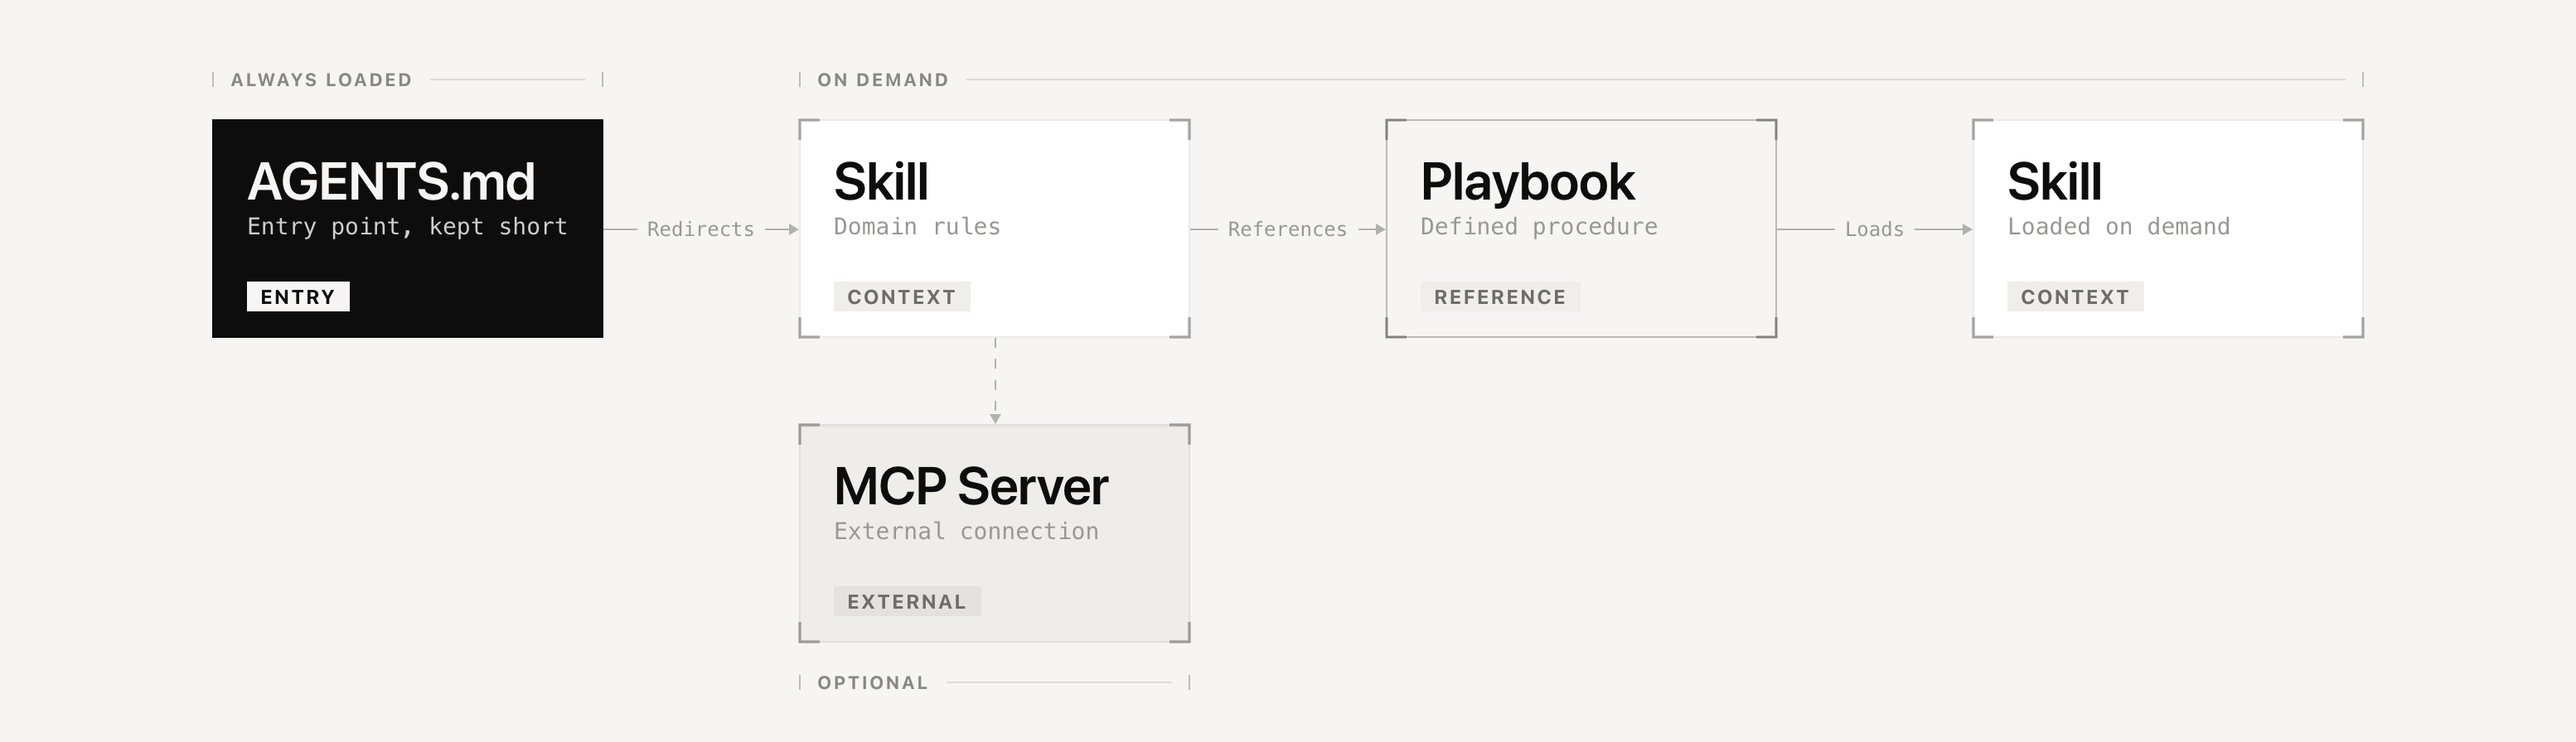
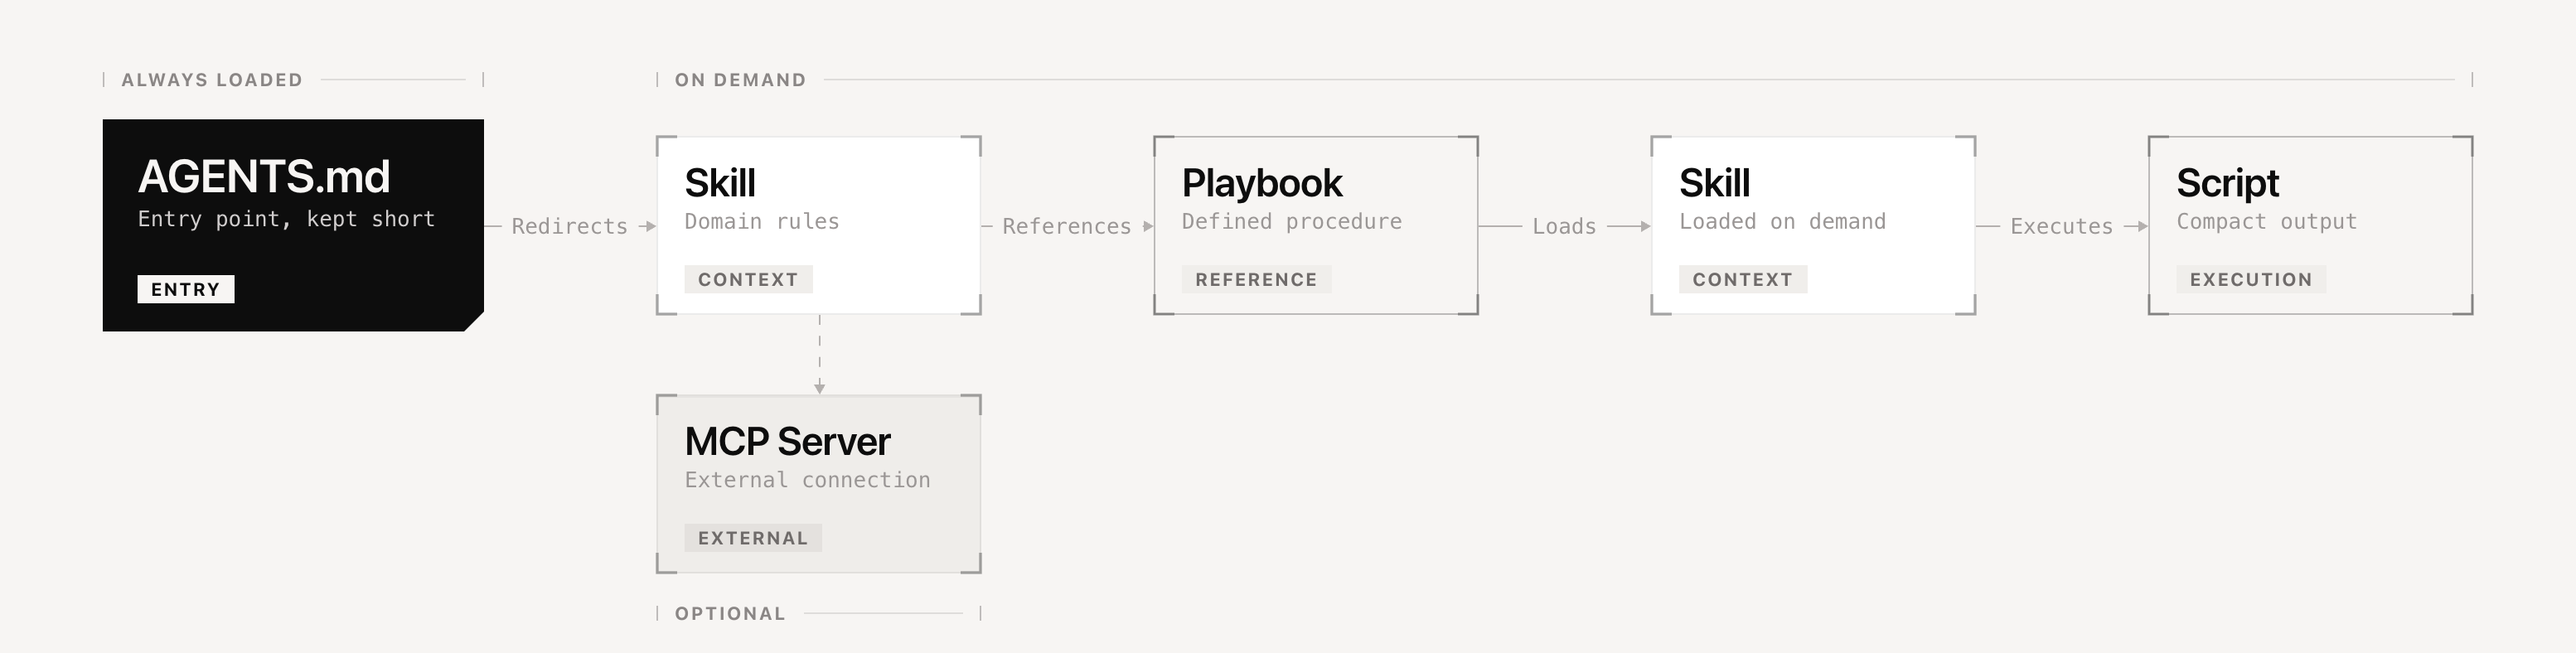
docs: add script card to concept image (#45)
Script joins the main row after the loaded skill. AGENTS.md card
larger with a cut corner, other cards smaller. Four font sizes.

diff --git a/.github/assets/concept.html b/.github/assets/concept.html
@@ -12,9 +12,13 @@
     --muted: #9a9695;
     --border: rgba(0, 0, 0, .08);
     --font-mono: ui-monospace, "SFMono-Regular", Menlo, Monaco, Consolas, monospace;
+    --fs-title-lg: 28px;
+    --fs-title: 24px;
+    --fs-text: 13px;
+    --fs-tag: 11px;
   }
   * { box-sizing: border-box; margin: 0; }
-  html, body { width: 1554px; height: 448px; overflow: hidden; }
+  html, body { width: 1554px; height: 394px; overflow: hidden; }
   body {
     position: relative;
     font-family: system-ui, -apple-system, BlinkMacSystemFont, sans-serif;
@@ -28,19 +32,24 @@
   svg { position: absolute; inset: 0; pointer-events: none; z-index: 5; }
 
   .card {
-    position: absolute; width: 236px; height: 132px; padding: 19px 20px 15px;
+    position: absolute; width: 196px; height: 108px; padding: 14px 16px 12px;
     display: flex; flex-direction: column;
     background: var(--card); border: 1px solid var(--border); border-radius: 0;
   }
-  .card h3 { font-size: 32px; font-weight: 600; letter-spacing: -0.02em; line-height: 1.05; }
-  .card .sub { margin-top: 3px; font-family: var(--font-mono); font-size: 14px; color: var(--muted); white-space: nowrap; }
+  .card h3 { font-size: var(--fs-title); font-weight: 600; letter-spacing: -0.02em; line-height: 1.05; }
+  .card .sub { margin-top: 4px; font-family: var(--font-mono); font-size: var(--fs-text); color: var(--muted); white-space: nowrap; }
   .card .foot { margin-top: auto; padding-top: 10px; display: flex; align-items: center; }
   .pill {
     padding: 2px 8px; background: #f0eeeb; color: var(--label);
-    font-size: 12px; font-weight: 700; letter-spacing: 0.08em; text-transform: uppercase;
+    font-size: var(--fs-tag); font-weight: 700; letter-spacing: 0.08em; text-transform: uppercase;
   }
 
-  .card.start { background: var(--ink); border-color: var(--ink); color: var(--bg); }
+  .card.start {
+    width: 230px; height: 128px; padding: 18px 20px 16px;
+    background: var(--ink); border-color: var(--ink); color: var(--bg);
+    clip-path: polygon(0 0, 100% 0, 100% calc(100% - 12px), calc(100% - 12px) 100%, 0 100%);
+  }
+  .card.start h3 { font-size: var(--fs-title-lg); }
   .card.start .sub { color: #d0cdcd; }
   .card.start .pill { background: var(--bg); color: var(--ink); }
   .card.solid { background: transparent; border-color: rgba(0, 0, 0, .24); }
@@ -50,45 +59,49 @@
   .label {
     position: absolute; transform: translate(-50%, -50%); z-index: 6;
     padding: 3px 6px; background: var(--bg);
-    font-family: var(--font-mono); font-size: 12px; line-height: 1; color: var(--muted); white-space: nowrap;
+    font-family: var(--font-mono); font-size: var(--fs-text); line-height: 1; color: var(--muted); white-space: nowrap;
   }
 
   .group { position: absolute; height: 12px; display: flex; align-items: center; gap: 10px; }
   .group::before, .group::after { content: ""; width: 1px; height: 9px; background: var(--muted); opacity: .6; }
   .group b {
-    font-size: 11px; font-weight: 700; letter-spacing: 0.1em; text-transform: uppercase;
+    font-size: var(--fs-tag); font-weight: 700; letter-spacing: 0.1em; text-transform: uppercase;
     color: #8a8685; white-space: nowrap;
   }
   .group i { flex: 1; height: 1px; background: rgba(0, 0, 0, .1); }
 </style>
 </head>
 <body>
-<svg width="1554" height="448" viewBox="0 0 1554 448" fill="none" stroke="#b4b0ae" stroke-width="1">
-  <path d="M364 138.5H478"/><path d="M718 138.5H832"/><path d="M1072 138.5H1186"/><path d="M600.5 204V252" stroke-dasharray="6 6.67"/>
-  <g fill="#b4b0ae" stroke="none"><path d="M482 138.5l-6 -3.5v7z"/><path d="M836 138.5l-6 -3.5v7z"/><path d="M1190 138.5l-6 -3.5v7z"/><path d="M600.5 256l-3.5 -6h7z"/></g>
-  <g fill="none" stroke="rgba(0,0,0,.3)" stroke-width="1.75"><path d="M482.5 84.5V72.5H494.5M705.5 72.5H717.5V84.5M717.5 191.5V203.5H705.5M494.5 203.5H482.5V191.5"/><path d="M836.5 84.5V72.5H848.5M1059.5 72.5H1071.5V84.5M1071.5 191.5V203.5H1059.5M848.5 203.5H836.5V191.5"/><path d="M1190.5 84.5V72.5H1202.5M1413.5 72.5H1425.5V84.5M1425.5 191.5V203.5H1413.5M1202.5 203.5H1190.5V191.5"/><path d="M482.5 268.5V256.5H494.5M705.5 256.5H717.5V268.5M717.5 375.5V387.5H705.5M494.5 387.5H482.5V375.5"/></g>
+<svg width="1554" height="394" viewBox="0 0 1554 394" fill="none" stroke="#b4b0ae" stroke-width="1">
+  <path d="M292 136.5H392"/><path d="M592 136.5H692"/><path d="M892 136.5H992"/><path d="M1192 136.5H1292"/><path d="M494.5 190.0V234.0" stroke-dasharray="6 6.67"/>
+  <g fill="#b4b0ae" stroke="none"><path d="M396 136.5l-6 -3.5v7z"/><path d="M696 136.5l-6 -3.5v7z"/><path d="M996 136.5l-6 -3.5v7z"/><path d="M1296 136.5l-6 -3.5v7z"/><path d="M494.5 238.0l-3.5 -6h7z"/></g>
+  <g fill="none" stroke="rgba(0,0,0,.3)" stroke-width="1.75"><path d="M396.5 94.5V82.5H408.5M579.5 82.5H591.5V94.5M591.5 177.5V189.5H579.5M408.5 189.5H396.5V177.5"/><path d="M696.5 94.5V82.5H708.5M879.5 82.5H891.5V94.5M891.5 177.5V189.5H879.5M708.5 189.5H696.5V177.5"/><path d="M996.5 94.5V82.5H1008.5M1179.5 82.5H1191.5V94.5M1191.5 177.5V189.5H1179.5M1008.5 189.5H996.5V177.5"/><path d="M1296.5 94.5V82.5H1308.5M1479.5 82.5H1491.5V94.5M1491.5 177.5V189.5H1479.5M1308.5 189.5H1296.5V177.5"/><path d="M396.5 250.5V238.5H408.5M579.5 238.5H591.5V250.5M591.5 333.5V345.5H579.5M408.5 345.5H396.5V333.5"/></g>
 </svg>
-<div class="label" style="left:423px; top:138.5px">Redirects</div><div class="label" style="left:777px; top:138.5px">References</div><div class="label" style="left:1131px; top:138.5px">Loads</div>
-<div class="group" style="left:128px; top:42px; width:236px"><b>Always loaded</b><i></i></div>
-<div class="group" style="left:482px; top:42px; width:944px"><b>On demand</b><i></i></div>
-<div class="group" style="left:482px; top:406px; width:236px"><b>Optional</b><i></i></div>
-<div class="card start" style="left:128px; top:72px">
+<div class="label" style="left:344.0px; top:136.5px">Redirects</div><div class="label" style="left:644.0px; top:136.5px">References</div><div class="label" style="left:944.0px; top:136.5px">Loads</div><div class="label" style="left:1244.0px; top:136.5px">Executes</div>
+<div class="group" style="left:62px; top:42px; width:230px"><b>Always loaded</b><i></i></div>
+<div class="group" style="left:396px; top:42px; width:1096px"><b>On demand</b><i></i></div>
+<div class="group" style="left:396px; top:364.0px; width:196px"><b>Optional</b><i></i></div>
+<div class="card start" style="left:62px; top:72px">
   <h3>AGENTS.md</h3><div class="sub">Entry point, kept short</div>
   <div class="foot"><span class="pill">Entry</span></div>
 </div>
-<div class="card" style="left:482px; top:72px">
+<div class="card " style="left:396px; top:82.0px">
   <h3>Skill</h3><div class="sub">Domain rules</div>
   <div class="foot"><span class="pill">Context</span></div>
 </div>
-<div class="card solid" style="left:836px; top:72px">
+<div class="card solid" style="left:696px; top:82.0px">
   <h3>Playbook</h3><div class="sub">Defined procedure</div>
   <div class="foot"><span class="pill">Reference</span></div>
 </div>
-<div class="card" style="left:1190px; top:72px">
+<div class="card " style="left:996px; top:82.0px">
   <h3>Skill</h3><div class="sub">Loaded on demand</div>
   <div class="foot"><span class="pill">Context</span></div>
 </div>
-<div class="card mcp" style="left:482px; top:256px">
+<div class="card solid" style="left:1296px; top:82.0px">
+  <h3>Script</h3><div class="sub">Compact output</div>
+  <div class="foot"><span class="pill">Execution</span></div>
+</div>
+<div class="card mcp" style="left:396px; top:238.0px">
   <h3>MCP Server</h3><div class="sub">External connection</div>
   <div class="foot"><span class="pill">External</span></div>
 </div>

diff --git a/README.md b/README.md
@@ -6,7 +6,7 @@ The agent stack, or profile, is a curated selection of what an agent works with:
 
 Context, loaded when it matters. [`AGENTS.md`](AGENTS.md) stays short and redirects the agent to a skill. The skill references a playbook, and the playbook loads further skills on demand. The concept builds on the [Agent Skills](https://agentskills.io/home) open standard.
 
-![AGENTS.md is always loaded and redirects to a skill. On demand, the skill references a playbook, and the playbook loads another skill. A skill may call an optional external MCP server.](.github/assets/concept@2x.png)
+![AGENTS.md is always loaded and redirects to a skill. On demand, the skill references a playbook, the playbook loads another skill, and that skill executes a script that returns only its output. A skill may call an optional external MCP server.](.github/assets/concept@2x.png)
 
 MCP servers are optional, and this repo only links them. The [Agent Plugins specification](https://agent-plugins.org/specification) describes skills and MCP servers as the two parts of a plugin. This repo ships no `plugin.json` or `mcp.json`, so it follows the idea but not the format.
 
